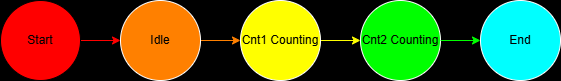
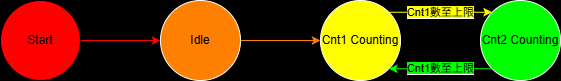
revise FSM AOV Breakdown image

diff --git a/3/README.md b/3/README.md
@@ -37,10 +37,11 @@
 透過 VHDL Testbench 進行驗證，確保計數器在切換點時能夠無縫銜接，並且在達到上限後正確重置並觸發下一個狀態。
 
 ### 模擬波形圖
+![模擬結果](img/模擬結果(原圖).png)
 ![模擬結果](img/模擬結果.png)
 
 > [!NOTE]
-> 模擬結果顯示，計數器在切換瞬間 (`CurrentState` 改變時)，下一個計數器會立即從 1 開始計數，確保計時精確性。
+> 紅色方框為idle狀態，綠色方框為cnt1count狀態，黃色方框為cnt2count狀態。
 
 ---
 
@@ -57,10 +58,4 @@
 | `o_Cnt2_q`      | 輸出 | STD_LOGIC_VECTOR(7:0) | 計數器 2 目標輸出                        |
 | `o_state`       | 輸出 | STD_LOGIC_VECTOR(1:0) | 當前狀態編碼 (00:Idle, 01:Cnt1, 10:Cnt2) |
 
----
 
-## 快速開始
-
-1. 使用 Vivado 或 Quartus 開啟專案。
-2. 將 `CounterFSM.vhd` 加入來源檔案。
-3. 執行 `CounterFSM_tb.vhd` 進行模擬驗證。
